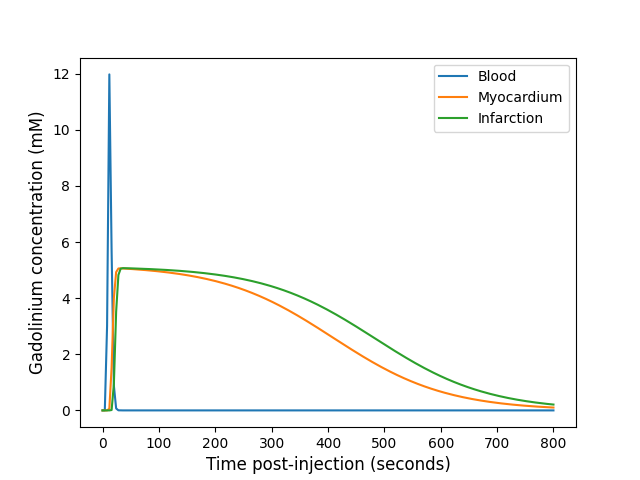
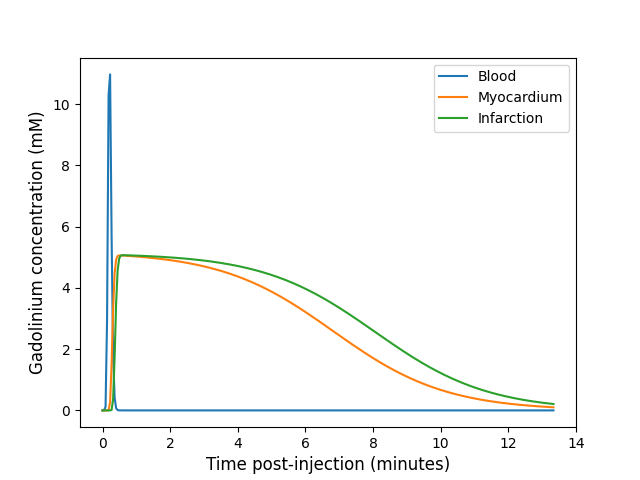
[fix] small mistake in concentration_models/fermi_concentration.py

diff --git a/t1mes/concentration_models/fermi_concentration.py b/t1mes/concentration_models/fermi_concentration.py
@@ -234,7 +234,7 @@ def get_concentrations(
         print(c_art.shape)
         plt.plot(times_post/60, c_art)
         plt.plot(times_post/60, c_myo)
-        plt.plot(times_post, c_inf)
+        plt.plot(times_post/60, c_inf)
         plt.legend(['Blood', 'Myocardium', 'Infarction'])
         plt.xlabel('Time post-injection (minutes)', fontsize='large')
         plt.ylabel('Gadolinium concentration (mM)', fontsize='large')
@@ -246,7 +246,7 @@ def main():
     parser = argparse.ArgumentParser(description="Compute concentrations for blood, myocardium, and infarction using Fermi model.")
     parser.add_argument('-t_start','--time_start', type=float, default=0., help='Start time after injection [s]')
     parser.add_argument('-d','--duration', type=float, default=60.*5, help='Duration of the scan [s]. Default to 5 minutes,')
-    parser.add_argument('-s', '--nb_sampled', type=int, default=100 ,help='Number of sampled. Default to 100')
+    parser.add_argument('-s', '--nb_sampled', type=int, default=300 ,help='Number of sampled. Default to 100')
     parser.add_argument('--alpha_myo', type=float, default=.01, help='Fermi model alpha parameter for myocardium')
     parser.add_argument('--beta_myo', type=float, default=.01, help='Fermi model beta parameter for myocardium')
     parser.add_argument('--alpha_inf', type=float, default=.01, help='Fermi model alpha parameter for infarction')
